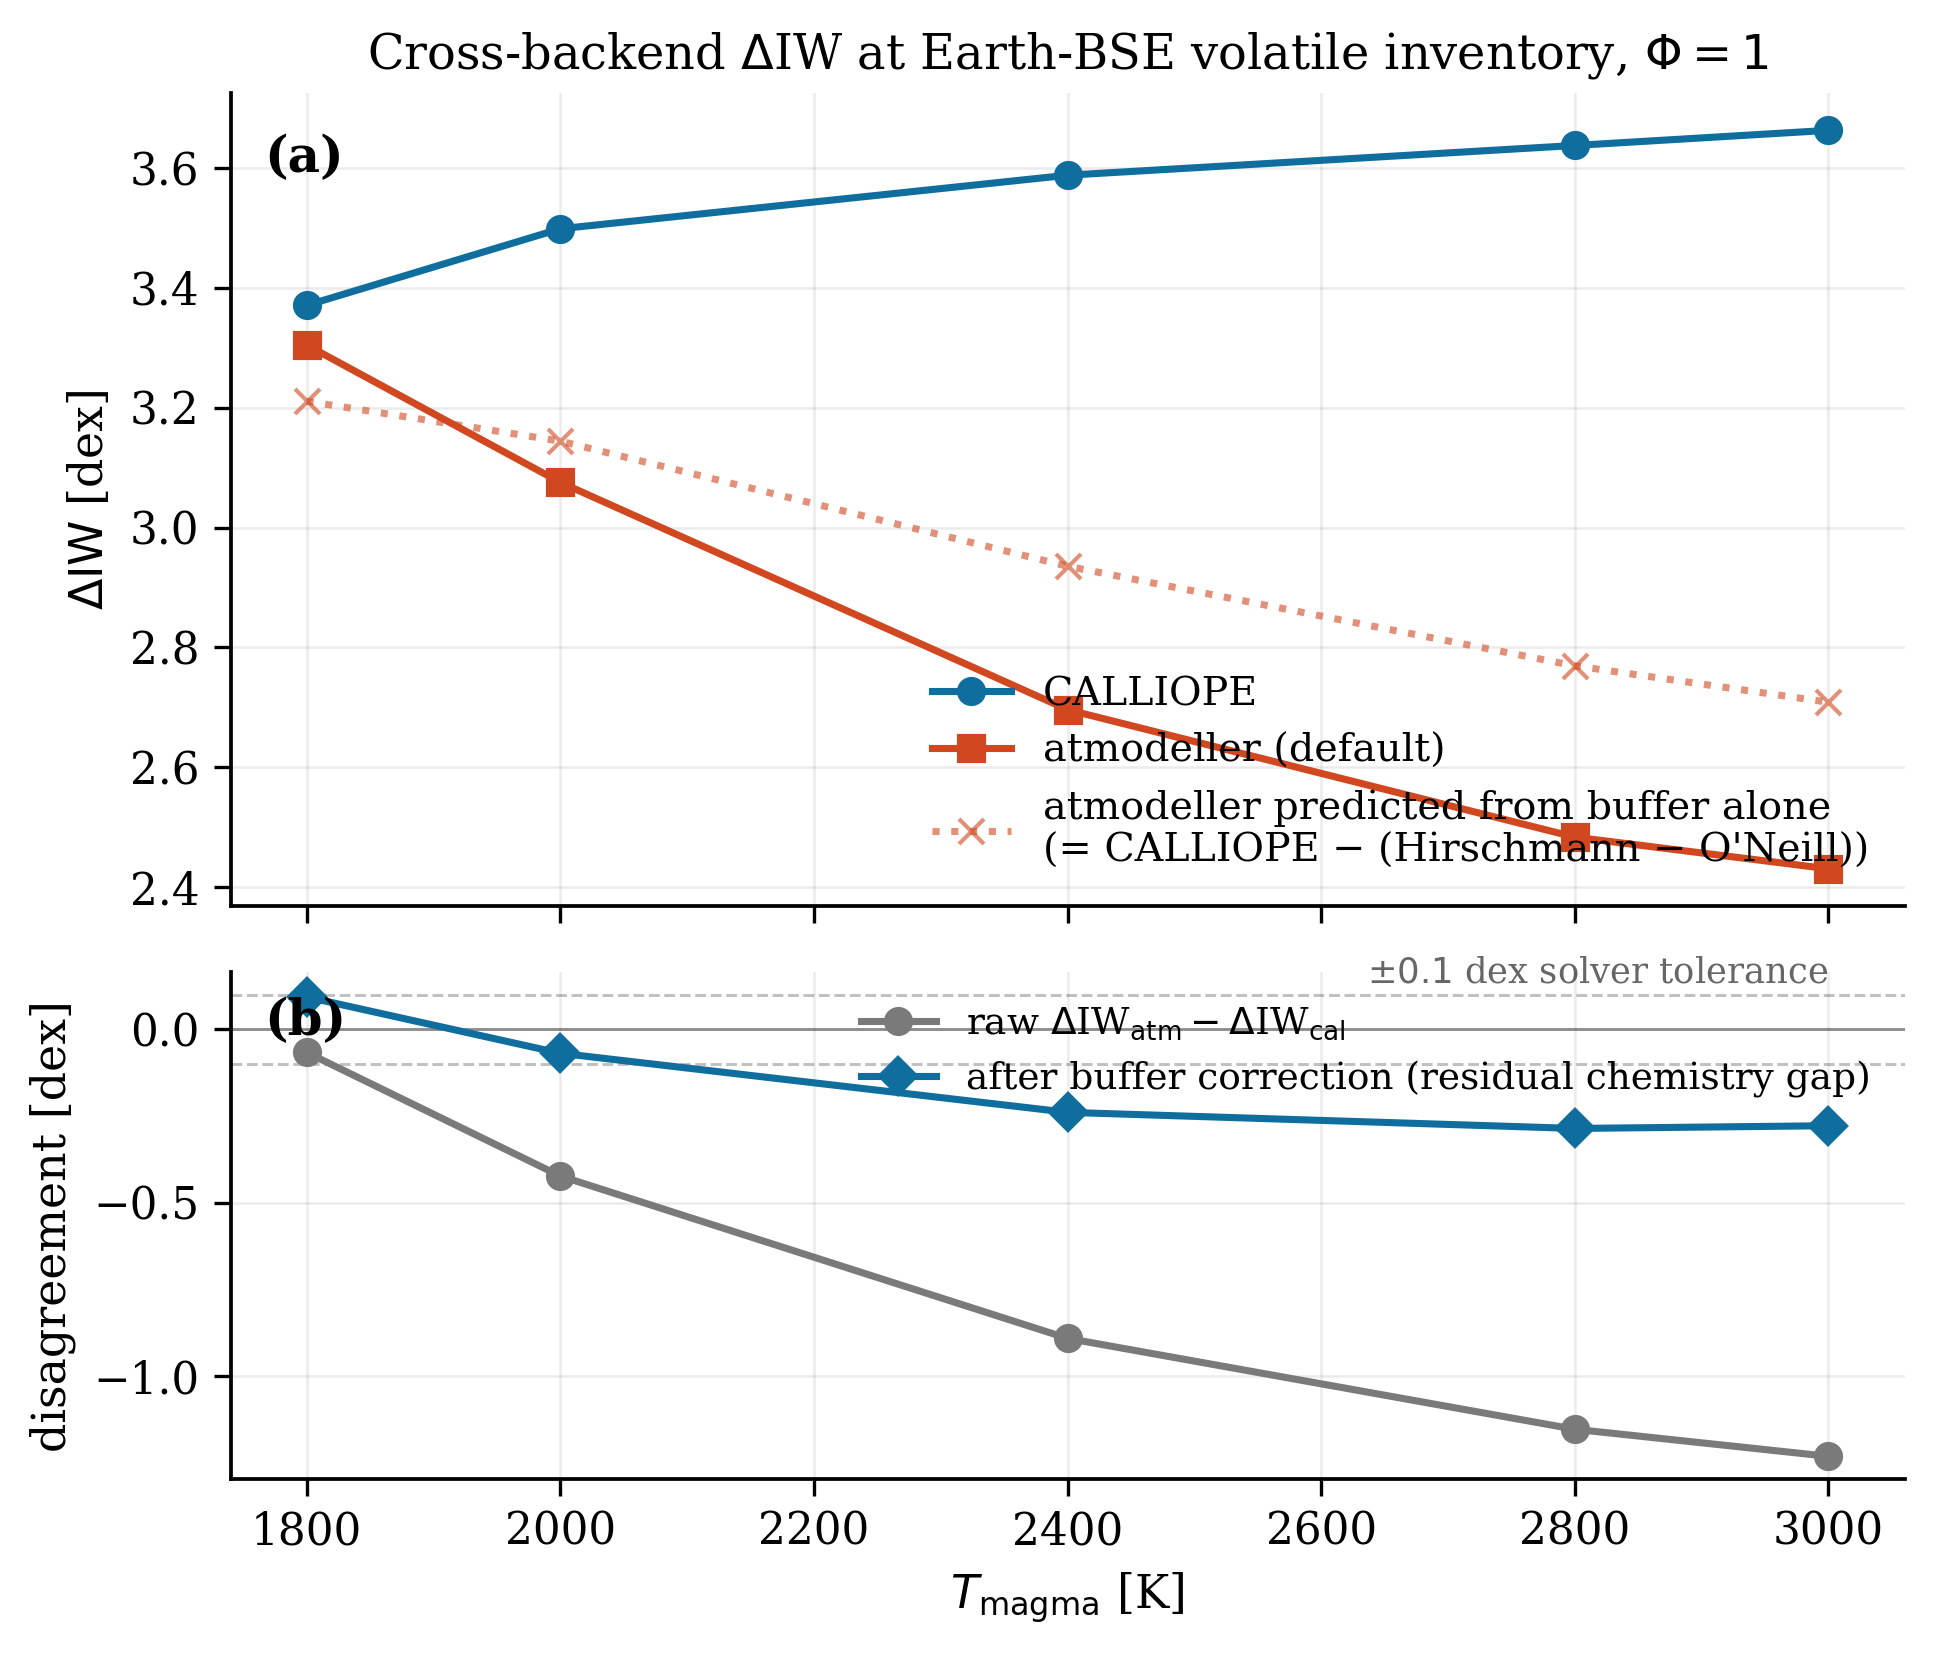
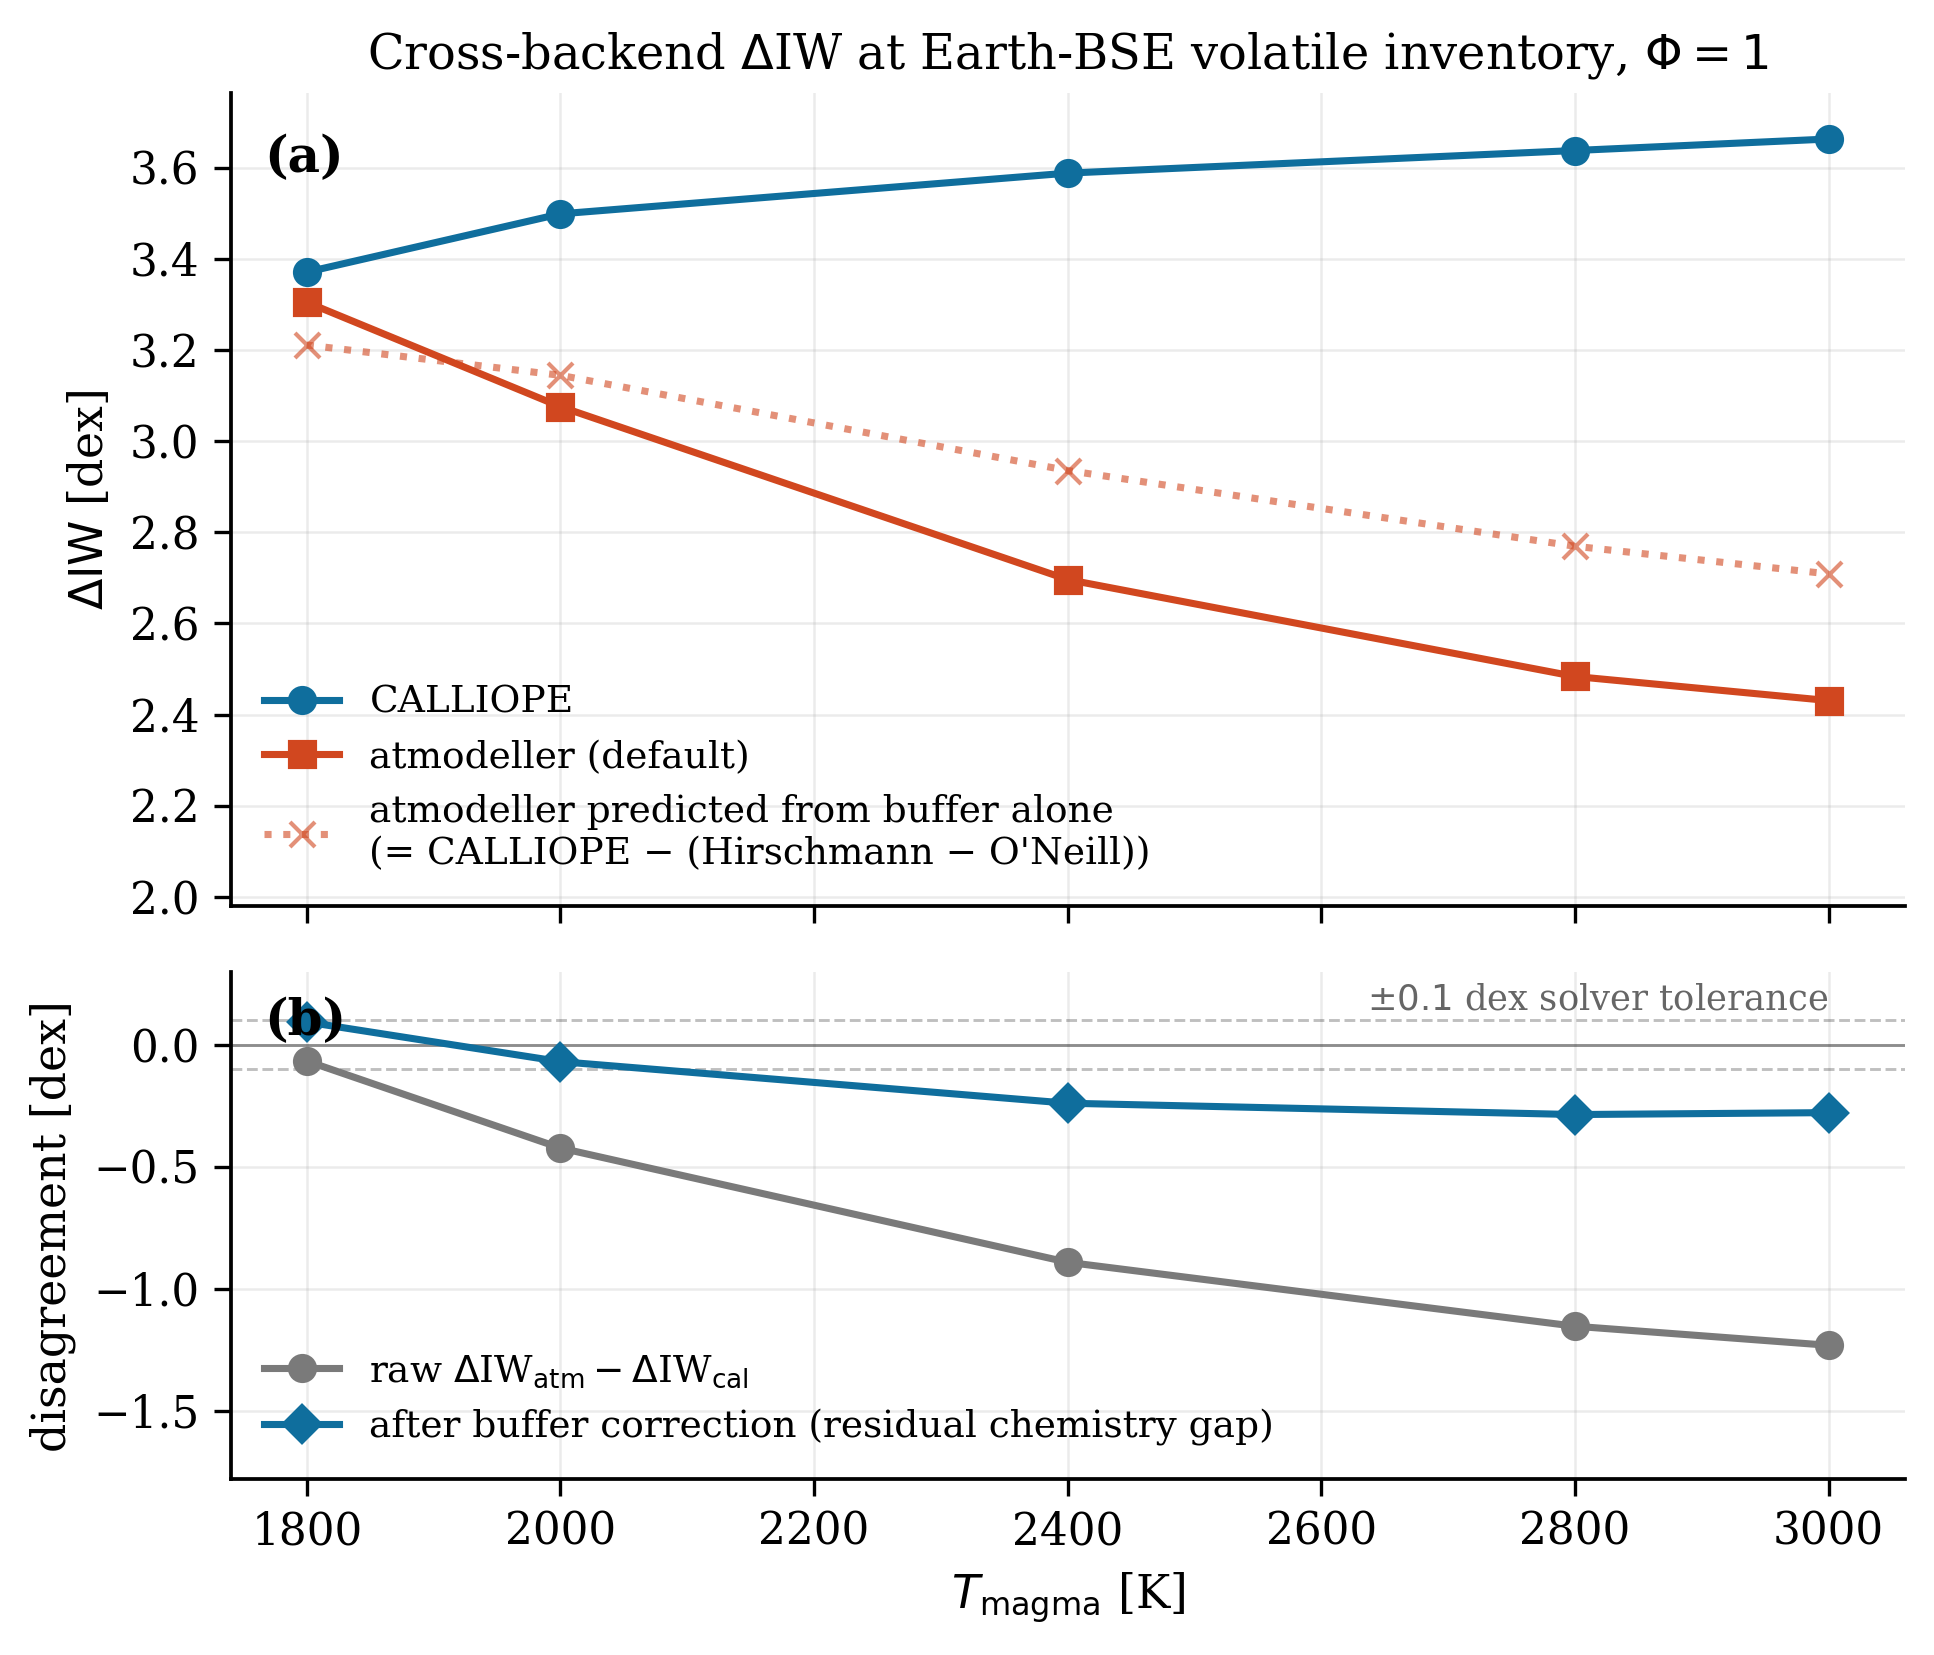
Move fig3 legends out of the data area
Both panels had legends parked on top of the curves: panel (a)'s
lower-right corner sat across the atmodeller and predicted-from-buffer
lines at the hot end, and panel (b)'s upper-right corner crossed the
raw-gap line near its zero-crossing.

Move both legends to lower-left, pad the y-axis on each panel so the
legend box sits below the lowest converged point, and shift the
tolerance-band annotation in panel (b) to the upper-right so it no
longer collides with the panel label.

diff --git a/scripts/cross_backend/fig3_grid.py b/scripts/cross_backend/fig3_grid.py
@@ -102,7 +102,13 @@ def make_figure(data: dict | None = None) -> dict:
                 label="atmodeller predicted from buffer alone\n(= CALLIOPE − (Hirschmann − O'Neill))")
     ax_top.set_ylabel(r'$\Delta\mathrm{IW}$ [dex]')
     ax_top.set_title('Cross-backend $\\Delta$IW at Earth-BSE volatile inventory, $\\Phi = 1$')
-    ax_top.legend(loc='lower right')
+    # Pad the y-axis so the legend fits below the CALLIOPE line at the
+    # cold end without clipping the converged data.
+    y_top_min = min(float(np.nanmin(dIW_atm_predicted)), float(np.nanmin(dIW_atm))) - 0.45
+    y_top_max = float(np.nanmax(dIW_cal)) + 0.10
+    ax_top.set_ylim(y_top_min, y_top_max)
+    ax_top.legend(loc='lower left', fontsize=9.0,
+                  framealpha=0.92, facecolor='white', edgecolor='none')
     panel_label(ax_top, '(a)')
 
     ax_bot.axhline(0.0, color='k', alpha=0.4, linewidth=0.7)
@@ -115,7 +121,14 @@ def make_figure(data: dict | None = None) -> dict:
                 fontsize=8.5, va='bottom', ha='right', alpha=0.6)
     ax_bot.set_xlabel(r'$T_\mathrm{magma}$ [K]')
     ax_bot.set_ylabel('disagreement [dex]')
-    ax_bot.legend(loc='upper right', fontsize=9.0)
+    # Pad the y-axis at the bottom so the legend fits below the raw-gap
+    # line (which sweeps down to about -1.25 dex at the hottest grid
+    # point).
+    y_bot_min = float(np.nanmin(raw_gap)) - 0.55
+    y_bot_max = max(0.30, float(np.nanmax(raw_gap)) + 0.20)
+    ax_bot.set_ylim(y_bot_min, y_bot_max)
+    ax_bot.legend(loc='lower left', fontsize=9.0,
+                  framealpha=0.92, facecolor='white', edgecolor='none')
     panel_label(ax_bot, '(b)')
 
     paths = save(fig, 'fig3_grid')
